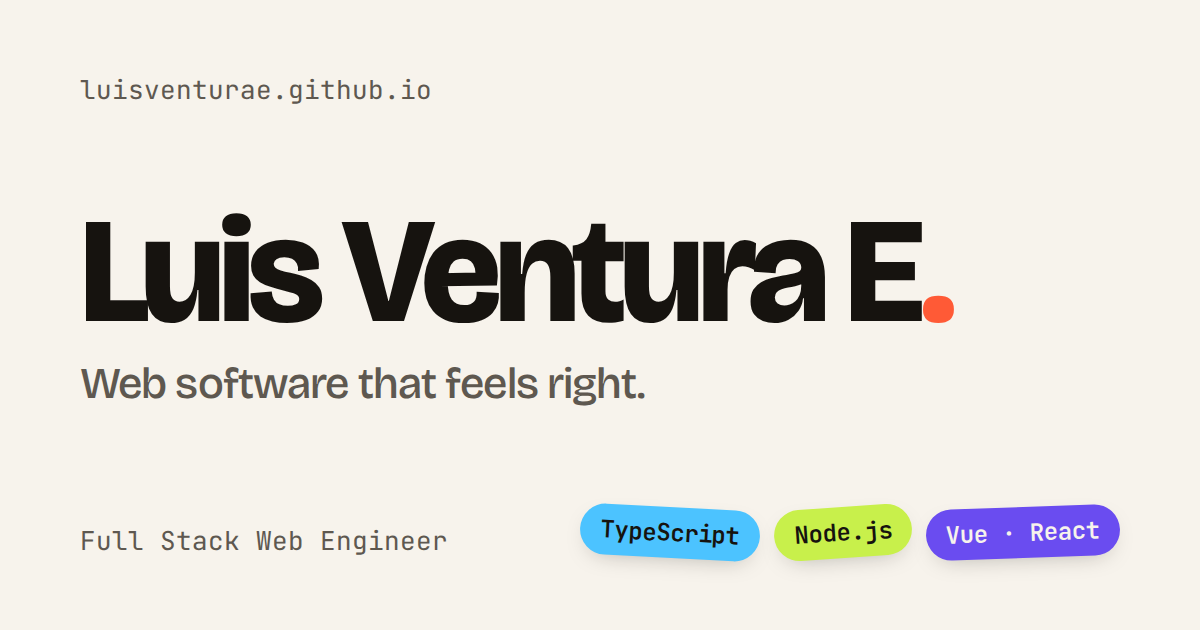
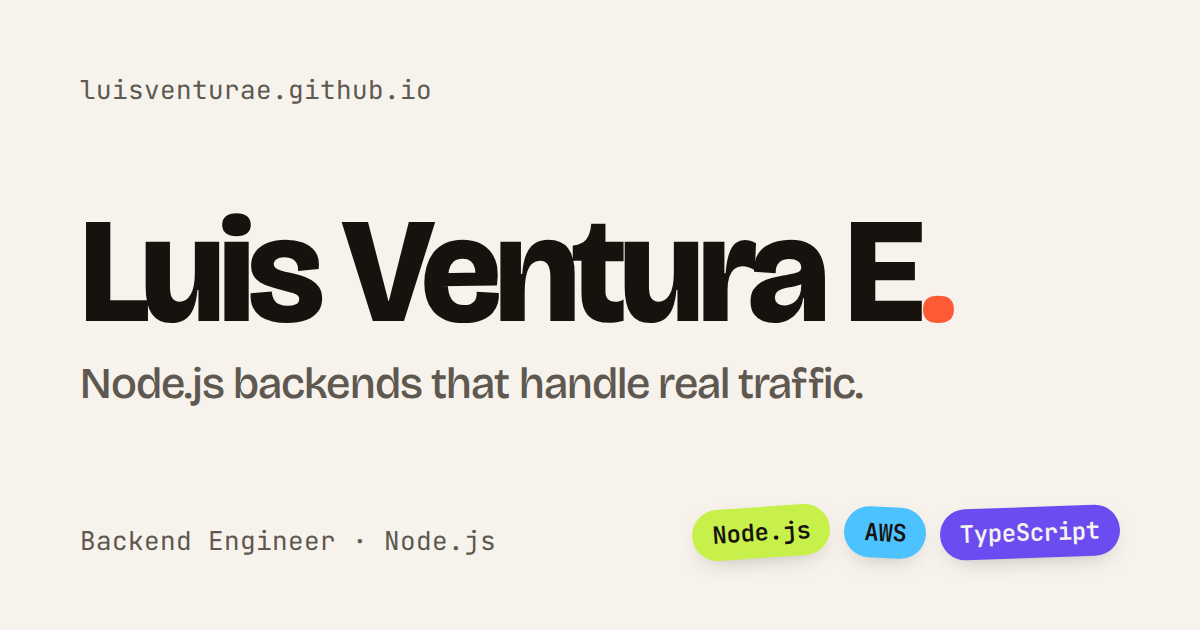
feat(web): position hero and metadata as backend engineer
The hero now leads with a static role, years of experience, main stack
and an availability badge (remote or hybrid, Peru); only complementary
roles rotate. Meta copy, JSON-LD job title and OG images follow the new
Backend Engineer · Node.js positioning.

Changed region(s): [[0.4625, 0.7841, 0.8942, 0.9048], [0.0617, 0.573, 0.74, 0.6635], [0.0617, 0.8444, 0.4317, 0.8746]]

diff --git a/apps/web/src/components/hero/Hero.tsx b/apps/web/src/components/hero/Hero.tsx
@@ -7,6 +7,12 @@ import { useRotatingIndex } from './useRotatingIndex'
 export interface HeroProps {
   name: string
   greeting: string
+  /** Main role; static so recruiters never wait for it. */
+  role: string
+  /** Key facts line (years, main stack), already interpolated. */
+  facts: string
+  availability: string
+  /** Complementary descriptions that rotate under the main role. */
   roles: string[]
   tagline: string
   drag_hint: string
@@ -16,10 +22,10 @@ export interface HeroProps {
 
 const PLAY_COLORS = ['var(--accent)', 'var(--violet)', 'var(--lime)', 'var(--sky)']
 const STICKERS = [
-  { label: 'TypeScript', className: 'right-[30%] bottom-[34%] -rotate-6 bg-sky', depth: 0 },
-  { label: 'Node.js', className: 'right-[6%] bottom-[40%] rotate-6 bg-lime', depth: 1 },
+  { label: 'Node.js', className: 'right-[30%] bottom-[34%] -rotate-6 bg-lime', depth: 0 },
+  { label: 'AWS', className: 'right-[6%] bottom-[40%] rotate-6 bg-sky', depth: 1 },
   {
-    label: 'Vue · React',
+    label: 'TypeScript',
     className: 'right-[14%] bottom-[8%] -rotate-3 bg-violet text-paper',
     depth: 2,
   },
@@ -50,6 +56,11 @@ export function Hero(props: HeroProps): ReactElement {
           {sticker.label}
         </motion.span>
       ))}
+
+      <p className="mb-6 inline-flex items-center gap-2 rounded-full border border-line bg-paper-raised px-3 py-1 text-small font-semibold">
+        <span aria-hidden="true" className="size-2 rounded-full bg-lime" />
+        {props.availability}
+      </p>
 
       <p className="font-mono text-small text-ink-muted">{props.greeting}</p>
 
@@ -84,10 +95,10 @@ export function Hero(props: HeroProps): ReactElement {
         ↖ {props.drag_hint}
       </p>
 
-      <p
-        className="mt-8 h-[1.4em] overflow-hidden text-title leading-[1.3] font-semibold"
-        aria-live="off"
-      >
+      <p className="mt-8 text-title leading-[1.3] font-semibold">{props.role}</p>
+      <p className="mt-2 font-mono text-small text-ink-muted">{props.facts}</p>
+
+      <p className="mt-4 h-[1.4em] overflow-hidden leading-[1.3] font-semibold" aria-live="off">
         <AnimatePresence mode="popLayout" initial={false}>
           <motion.span
             key={role_index}

diff --git a/apps/web/src/components/hero/Hero.test.tsx b/apps/web/src/components/hero/Hero.test.tsx
@@ -7,7 +7,10 @@ import { Hero, type HeroProps } from './Hero'
 const props: HeroProps = {
   name: 'Luis Ventura E',
   greeting: 'Hola, soy',
-  roles: ['Full Stack Web Engineer', 'Diseño en movimiento'],
+  role: 'Backend Engineer · Node.js',
+  facts: '7 años de experiencia · Node.js · TypeScript · AWS',
+  availability: 'Disponible · remoto o híbrido · Perú',
+  roles: ['Microservicios en AWS', 'Arquitectura hexagonal'],
   tagline: 'Construyo software web que se siente bien.',
   drag_hint: 'Arrastra las letras',
   cta_projects: 'Ver proyectos',
@@ -38,17 +41,25 @@ describe('Hero', () => {
 
   it('rotates the role over time', () => {
     render(<Hero {...props} />)
-    expect(screen.getByText('Full Stack Web Engineer')).toBeInTheDocument()
+    expect(screen.getByText('Microservicios en AWS')).toBeInTheDocument()
     act(() => vi.advanceTimersByTime(2700))
-    expect(screen.getByText('Diseño en movimiento')).toBeInTheDocument()
+    expect(screen.getByText('Arquitectura hexagonal')).toBeInTheDocument()
+  })
+
+  it('keeps the key facts outside the rotation', () => {
+    render(<Hero {...props} />)
+    const fixed = [props.role, props.facts, props.availability]
+    for (const text of fixed) expect(screen.getByText(text)).toBeInTheDocument()
+    act(() => vi.advanceTimersByTime(2700))
+    for (const text of fixed) expect(screen.getByText(text)).toBeInTheDocument()
   })
 
   it('keeps a single role when reduced motion is requested', () => {
     mockMatchMedia(['(prefers-reduced-motion: reduce)'])
     render(<Hero {...props} />)
     act(() => vi.advanceTimersByTime(6000))
-    expect(screen.getByText('Full Stack Web Engineer')).toBeInTheDocument()
-    expect(screen.queryByText('Diseño en movimiento')).not.toBeInTheDocument()
+    expect(screen.getByText('Microservicios en AWS')).toBeInTheDocument()
+    expect(screen.queryByText('Arquitectura hexagonal')).not.toBeInTheDocument()
   })
 
   it('asks the terminal to take focus', () => {

diff --git a/apps/web/src/i18n/fr.ts b/apps/web/src/i18n/fr.ts
@@ -2,10 +2,10 @@ import type { UiStrings } from './es'
 
 export const fr: UiStrings = {
   meta: {
-    title: 'Luis Ventura E — Full Stack Web Engineer',
+    title: 'Luis Ventura E — Backend Engineer · Node.js',
     description:
-      'Je construis des logiciels web agréables à utiliser : des interfaces soignées dans le détail et des backends qui tiennent un vrai trafic. JavaScript et TypeScript de bout en bout.',
-    og_image_alt: 'Luis Ventura E — Full Stack Web Engineer',
+      'Backend Engineer avec {years} ans d’expérience en Node.js, TypeScript et AWS : microservices, architecture hexagonale et chatbots. Disponible en télétravail ou en hybride au Pérou.',
+    og_image_alt: 'Luis Ventura E — Backend Engineer · Node.js',
   },
   a11y: {
     skip_to_content: 'Aller au contenu',
@@ -22,14 +22,16 @@ export const fr: UiStrings = {
   },
   hero: {
     greeting: 'Salut, je suis',
+    availability: 'Disponible · télétravail ou hybride · Pérou',
+    facts: '{years} ans d’expérience · Node.js · TypeScript · AWS',
     roles: [
-      'Full Stack Web Engineer',
-      'Design en mouvement',
-      'Des backends qui tiennent',
-      'TypeScript de bout en bout',
+      'Microservices sur AWS',
+      'Architecture hexagonale',
+      'APIs et chatbots en production',
+      'Et je soigne aussi l’UI',
     ],
     tagline:
-      'Je construis des logiciels web agréables : chaque détail mesuré, chaque interaction voulue.',
+      'Je conçois des backends Node.js qui tiennent un vrai trafic, accompagnés d’interfaces agréables à utiliser.',
     drag_hint: 'Fais glisser les lettres',
     cta_projects: 'Voir les projets',
     cta_terminal: 'Ouvrir le terminal',

diff --git a/apps/web/src/i18n/en.ts b/apps/web/src/i18n/en.ts
@@ -2,10 +2,10 @@ import type { UiStrings } from './es'
 
 export const en: UiStrings = {
   meta: {
-    title: 'Luis Ventura E — Full Stack Web Engineer',
+    title: 'Luis Ventura E — Backend Engineer · Node.js',
     description:
-      'I build web software that feels right: interfaces crafted to the detail and backends that handle real traffic. JavaScript and TypeScript end to end.',
-    og_image_alt: 'Luis Ventura E — Full Stack Web Engineer',
+      'Backend Engineer with {years} years of experience in Node.js, TypeScript and AWS: microservices, hexagonal architecture and chatbots. Open to remote or hybrid roles in Peru.',
+    og_image_alt: 'Luis Ventura E — Backend Engineer · Node.js',
   },
   a11y: {
     skip_to_content: 'Skip to content',
@@ -22,14 +22,16 @@ export const en: UiStrings = {
   },
   hero: {
     greeting: "Hi, I'm",
+    availability: 'Available · remote or hybrid · Peru',
+    facts: '{years} years of experience · Node.js · TypeScript · AWS',
     roles: [
-      'Full Stack Web Engineer',
-      'Design in motion',
-      'Backends that scale',
-      'TypeScript end to end',
+      'Microservices on AWS',
+      'Hexagonal architecture',
+      'APIs and chatbots in production',
+      'And I care about the UI too',
     ],
     tagline:
-      'I build web software that feels right: every detail measured, every interaction intentional.',
+      'I build Node.js backends that handle real traffic, and pair them with interfaces that feel right.',
     drag_hint: 'Drag the letters',
     cta_projects: 'See projects',
     cta_terminal: 'Open the terminal',

diff --git a/apps/web/src/i18n/es.ts b/apps/web/src/i18n/es.ts
@@ -1,9 +1,9 @@
 export const es = {
   meta: {
-    title: 'Luis Ventura E — Full Stack Web Engineer',
+    title: 'Luis Ventura E — Backend Engineer · Node.js',
     description:
-      'Construyo software web que se siente bien: interfaces cuidadas al detalle y backends que aguantan tráfico real. JavaScript y TypeScript de punta a punta.',
-    og_image_alt: 'Luis Ventura E — Full Stack Web Engineer',
+      'Backend Engineer con {years} años de experiencia en Node.js, TypeScript y AWS: microservicios, arquitectura hexagonal y chatbots. Disponible para trabajo remoto o híbrido en Perú.',
+    og_image_alt: 'Luis Ventura E — Backend Engineer · Node.js',
   },
   a11y: {
     skip_to_content: 'Saltar al contenido',
@@ -20,14 +20,16 @@ export const es = {
   },
   hero: {
     greeting: 'Hola, soy',
+    availability: 'Disponible · remoto o híbrido · Perú',
+    facts: '{years} años de experiencia · Node.js · TypeScript · AWS',
     roles: [
-      'Full Stack Web Engineer',
-      'Diseño en movimiento',
-      'Backends que escalan',
-      'TypeScript de punta a punta',
+      'Microservicios en AWS',
+      'Arquitectura hexagonal',
+      'APIs y chatbots en producción',
+      'Y también cuido la UI',
     ],
     tagline:
-      'Construyo software web que se siente bien: cada detalle medido, cada interacción con intención.',
+      'Diseño backends en Node.js que aguantan tráfico real, y los acompaño de interfaces que se sienten bien.',
     drag_hint: 'Arrastra las letras',
     cta_projects: 'Ver proyectos',
     cta_terminal: 'Abrir la terminal',

diff --git a/apps/web/e2e/shell.spec.ts b/apps/web/e2e/shell.spec.ts
@@ -1,6 +1,21 @@
 import AxeBuilder from '@axe-core/playwright'
 
+import { careerYears } from '../src/lib/experience'
 import { expect, test } from './fixtures'
+
+test.describe('hero without JavaScript', () => {
+  test.use({ javaScriptEnabled: false })
+
+  test('shows role, years, main stack and availability', async ({ page }) => {
+    await page.goto('/')
+    const hero = page.locator('#top')
+    await expect(hero.getByText('Backend Engineer · Node.js', { exact: true })).toBeVisible()
+    await expect(
+      hero.getByText(`${careerYears()} años de experiencia · Node.js · TypeScript · AWS`),
+    ).toBeVisible()
+    await expect(hero.getByText('Disponible · remoto o híbrido · Perú')).toBeVisible()
+  })
+})
 
 test.describe('site shell', () => {
   test('switching language keeps the current section', async ({ page }) => {
@@ -48,8 +63,8 @@ test.describe('site shell', () => {
   test('reduced motion keeps a single role in the hero', async ({ page }) => {
     await page.emulateMedia({ reducedMotion: 'reduce' })
     await page.goto('/')
-    await expect(page.getByText('Full Stack Web Engineer', { exact: true }).first()).toBeVisible()
+    await expect(page.getByText('Microservicios en AWS', { exact: true }).first()).toBeVisible()
     await page.waitForTimeout(3000)
-    await expect(page.getByText('Diseño en movimiento')).toHaveCount(0)
+    await expect(page.getByText('Arquitectura hexagonal')).toHaveCount(0)
   })
 })

diff --git a/apps/web/src/lib/seo.test.ts b/apps/web/src/lib/seo.test.ts
@@ -6,7 +6,7 @@ const input = {
   locale: 'en' as const,
   site_url: 'https://luisventurae.github.io',
   page_url: 'https://luisventurae.github.io/en/',
-  title: 'Luis Ventura E — Full Stack Web Engineer',
+  title: 'Luis Ventura E — Backend Engineer · Node.js',
   description: 'I build web software that feels right.',
   same_as: ['https://github.com/luisventurae'],
   knows_about: ['TypeScript', 'Node.js'],
@@ -47,7 +47,7 @@ describe('buildStructuredData', () => {
       '@id': 'https://luisventurae.github.io/#person',
       name: 'Luis Miguel Ventura E',
       alternateName: 'Luis Ventura E',
-      jobTitle: 'Full Stack Web Engineer',
+      jobTitle: 'Backend Engineer · Node.js',
       sameAs: input.same_as,
       knowsAbout: input.knows_about,
       knowsLanguage: ['es', 'en', 'fr'],

diff --git a/apps/web/src/lib/terminal/commands.test.ts b/apps/web/src/lib/terminal/commands.test.ts
@@ -7,7 +7,7 @@ const context: TerminalContext = {
   locale: 'es',
   messages: es.terminal.messages,
   category_labels: es.stack.categories,
-  whoami: 'Soy Luis, Full Stack Web Engineer.',
+  whoami: 'Soy Luis, Backend Engineer · Node.js.',
   projects: [
     {
       slug: 'ticker',
@@ -33,7 +33,7 @@ describe('runCommand', () => {
   })
 
   it('answers whoami', () => {
-    expect(texts('whoami')).toEqual(['Soy Luis, Full Stack Web Engineer.'])
+    expect(texts('whoami')).toEqual(['Soy Luis, Backend Engineer · Node.js.'])
   })
 
   it('lists projects and shows one with cat', () => {

diff --git a/apps/web/src/data/site.ts b/apps/web/src/data/site.ts
@@ -4,7 +4,7 @@ export const SOURCE_URL = 'https://github.com/luisventurae/luisventurae.github.i
 export const PERSON = {
   name: 'Luis Ventura E',
   full_name: 'Luis Miguel Ventura E',
-  job_title: 'Full Stack Web Engineer',
+  job_title: 'Backend Engineer · Node.js',
   image_path: '/luis-83x83.jpg',
 } as const
 

diff --git a/openspec/changes/recruiter-focused-content/tasks.md b/openspec/changes/recruiter-focused-content/tasks.md
@@ -14,10 +14,10 @@ Cada grupo es un commit (Conventional Commits, sin trailers de atribución) y se
 
 ## 3. Hero y metadatos (`feat(web): position hero and metadata as backend engineer`)
 
-- [ ] 3.1 Hero: línea fija de datos clave con `{years}` y badge de disponibilidad, roles complementarios en es/en/fr y stickers Node.js/AWS/TypeScript; test en `Hero.test.tsx` que confirme que los datos fijos no cambian al avanzar la rotación; verificar con `npm test`
-- [ ] 3.2 `PERSON.job_title = 'Backend Engineer · Node.js'`, `meta.title` y `meta.description` en es/en/fr, `jobTitle` del JSON-LD (`seo.test.ts`), y regenerar las imágenes OG con `apps/web/scripts/generate-og.mjs`; verificar con `npm test` y comprobando visualmente `public/og/*.png`
-- [ ] 3.3 E2E: el hero muestra "7 años", Node.js y la disponibilidad con JavaScript desactivado (`shell.spec.ts`); verificar con `npm run test:e2e`
-- [ ] 3.4 Actualizar el rol y la esencia en `docs/branding.md`; verificar que `rg "Full Stack Web Engineer" apps docs` solo devuelve menciones históricas
+- [x] 3.1 Hero: línea fija de datos clave con `{years}` y badge de disponibilidad, roles complementarios en es/en/fr y stickers Node.js/AWS/TypeScript; test en `Hero.test.tsx` que confirme que los datos fijos no cambian al avanzar la rotación; verificar con `npm test`
+- [x] 3.2 `PERSON.job_title = 'Backend Engineer · Node.js'`, `meta.title` y `meta.description` en es/en/fr, `jobTitle` del JSON-LD (`seo.test.ts`), y regenerar las imágenes OG con `apps/web/scripts/generate-og.mjs`; verificar con `npm test` y comprobando visualmente `public/og/*.png`
+- [x] 3.3 E2E: el hero muestra "7 años", Node.js y la disponibilidad con JavaScript desactivado (`shell.spec.ts`); verificar con `npm run test:e2e`
+- [x] 3.4 Actualizar el rol y la esencia en `docs/branding.md`; verificar que `rg "Full Stack Web Engineer" apps docs` solo devuelve menciones históricas
 
 ## 4. Sobre mí y Experiencia (`feat(web): add about and experience sections`)
 

diff --git a/docs/branding.md b/docs/branding.md
@@ -15,7 +15,9 @@ Identidad del portafolio de Luis Ventura E. Los valores concretos (hex, tamaños
 
 ## 1. Esencia
 
-**Un ingeniero que se divierte construyendo cosas que se sienten bien.** El sitio es _playful_ y expresivo, pero cada detalle está medido: el juego demuestra oficio, no lo reemplaza.
+**Un ingeniero backend que se divierte construyendo cosas que se sienten bien.** El sitio es _playful_ y expresivo, pero cada detalle está medido: el juego demuestra oficio, no lo reemplaza.
+
+El público principal son reclutadores que buscan un perfil backend Node.js (remoto o híbrido, Perú). Rol, años de experiencia, stack principal y disponibilidad se leen en el hero sin esperar ni interactuar: la información clave nunca rota ni depende de una animación.
 
 Tres ideas guía:
 
@@ -39,7 +41,7 @@ Tres ideas guía:
 ## 3. Nombre y firma
 
 - Nombre público: **Luis Ventura E**. Nombre completo en datos estructurados: Luis Miguel Ventura E.
-- Rol: **Full Stack Web Engineer**.
+- Rol: **Backend Engineer · Node.js**. El frontend y el motion son el plus que lo diferencia, no el titular.
 - Monograma provisional: `lv.` en tipografía display con el punto en color de acento. `TODO(media)`: reemplazar por el logo definitivo si existe.
 
 ## 4. Paleta

diff --git a/README.md b/README.md
@@ -1,6 +1,6 @@
 # Luis Ventura E — Portafolio
 
-Hola, soy Luis, Full Stack Web Engineer. Este repositorio es mi portafolio y también una muestra de cómo trabajo: el código, las decisiones y el historial están a la vista.
+Hola, soy Luis, Backend Engineer especializado en Node.js. Este repositorio es mi portafolio y también una muestra de cómo trabajo: el código, las decisiones y el historial están a la vista.
 
 **En vivo:** [luisventurae.github.io](https://luisventurae.github.io) · ES / EN / FR
 
